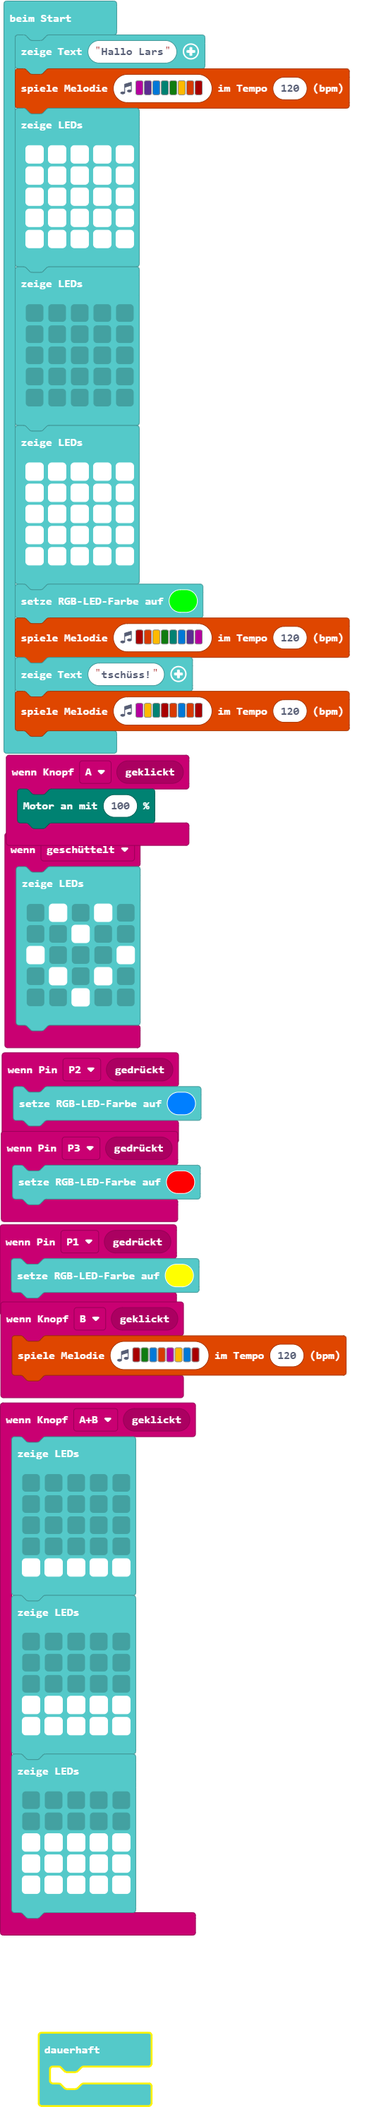
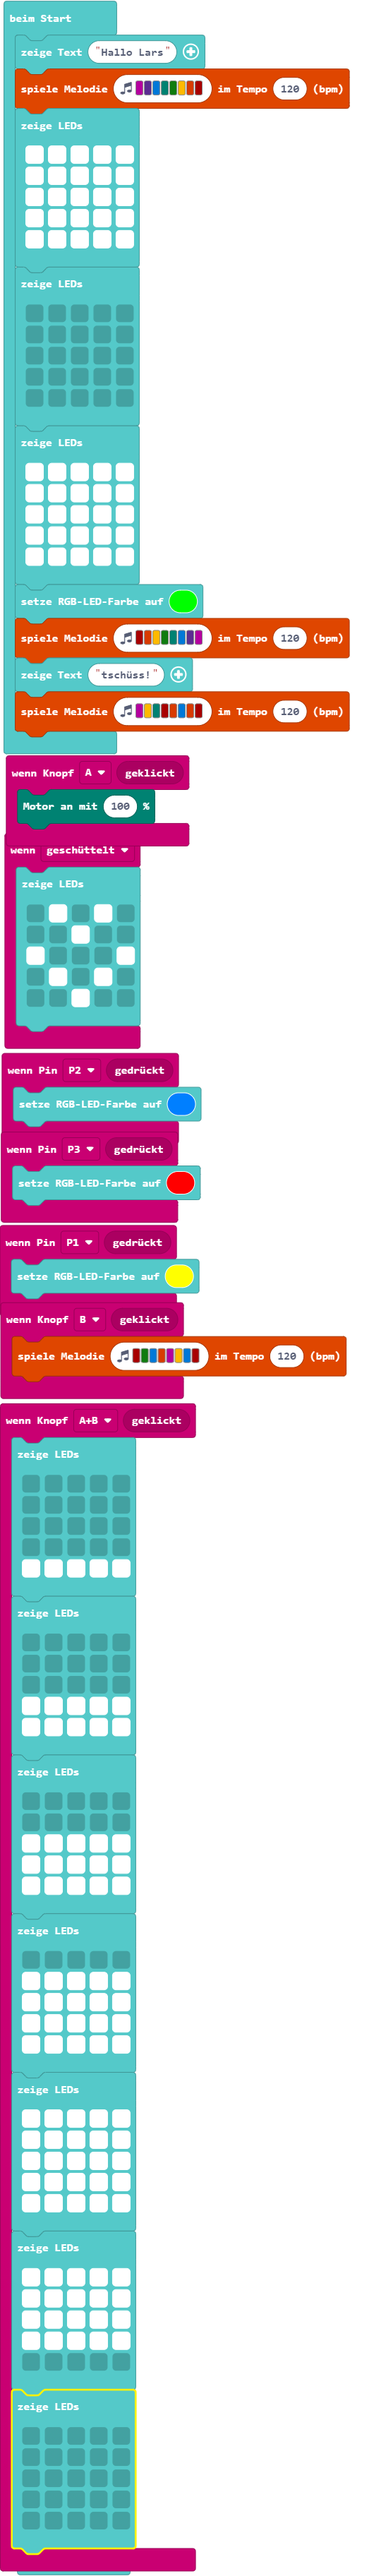
Aktualisiere main.blocks, main.ts

diff --git a/main.ts b/main.ts
@@ -26,6 +26,34 @@ input.onButtonEvent(Button.AB, input.buttonEventClick(), function () {
         # # # # #
         # # # # #
         `)
+    basic.showLeds(`
+        . . . . .
+        # # # # #
+        # # # # #
+        # # # # #
+        # # # # #
+        `)
+    basic.showLeds(`
+        # # # # #
+        # # # # #
+        # # # # #
+        # # # # #
+        # # # # #
+        `)
+    basic.showLeds(`
+        # # # # #
+        # # # # #
+        # # # # #
+        # # # # #
+        . . . . .
+        `)
+    basic.showLeds(`
+        . . . . .
+        . . . . .
+        . . . . .
+        . . . . .
+        . . . . .
+        `)
 })
 input.onButtonEvent(Button.B, input.buttonEventClick(), function () {
     music.playMelody("C5 G E B C A E C5 ", 120)
